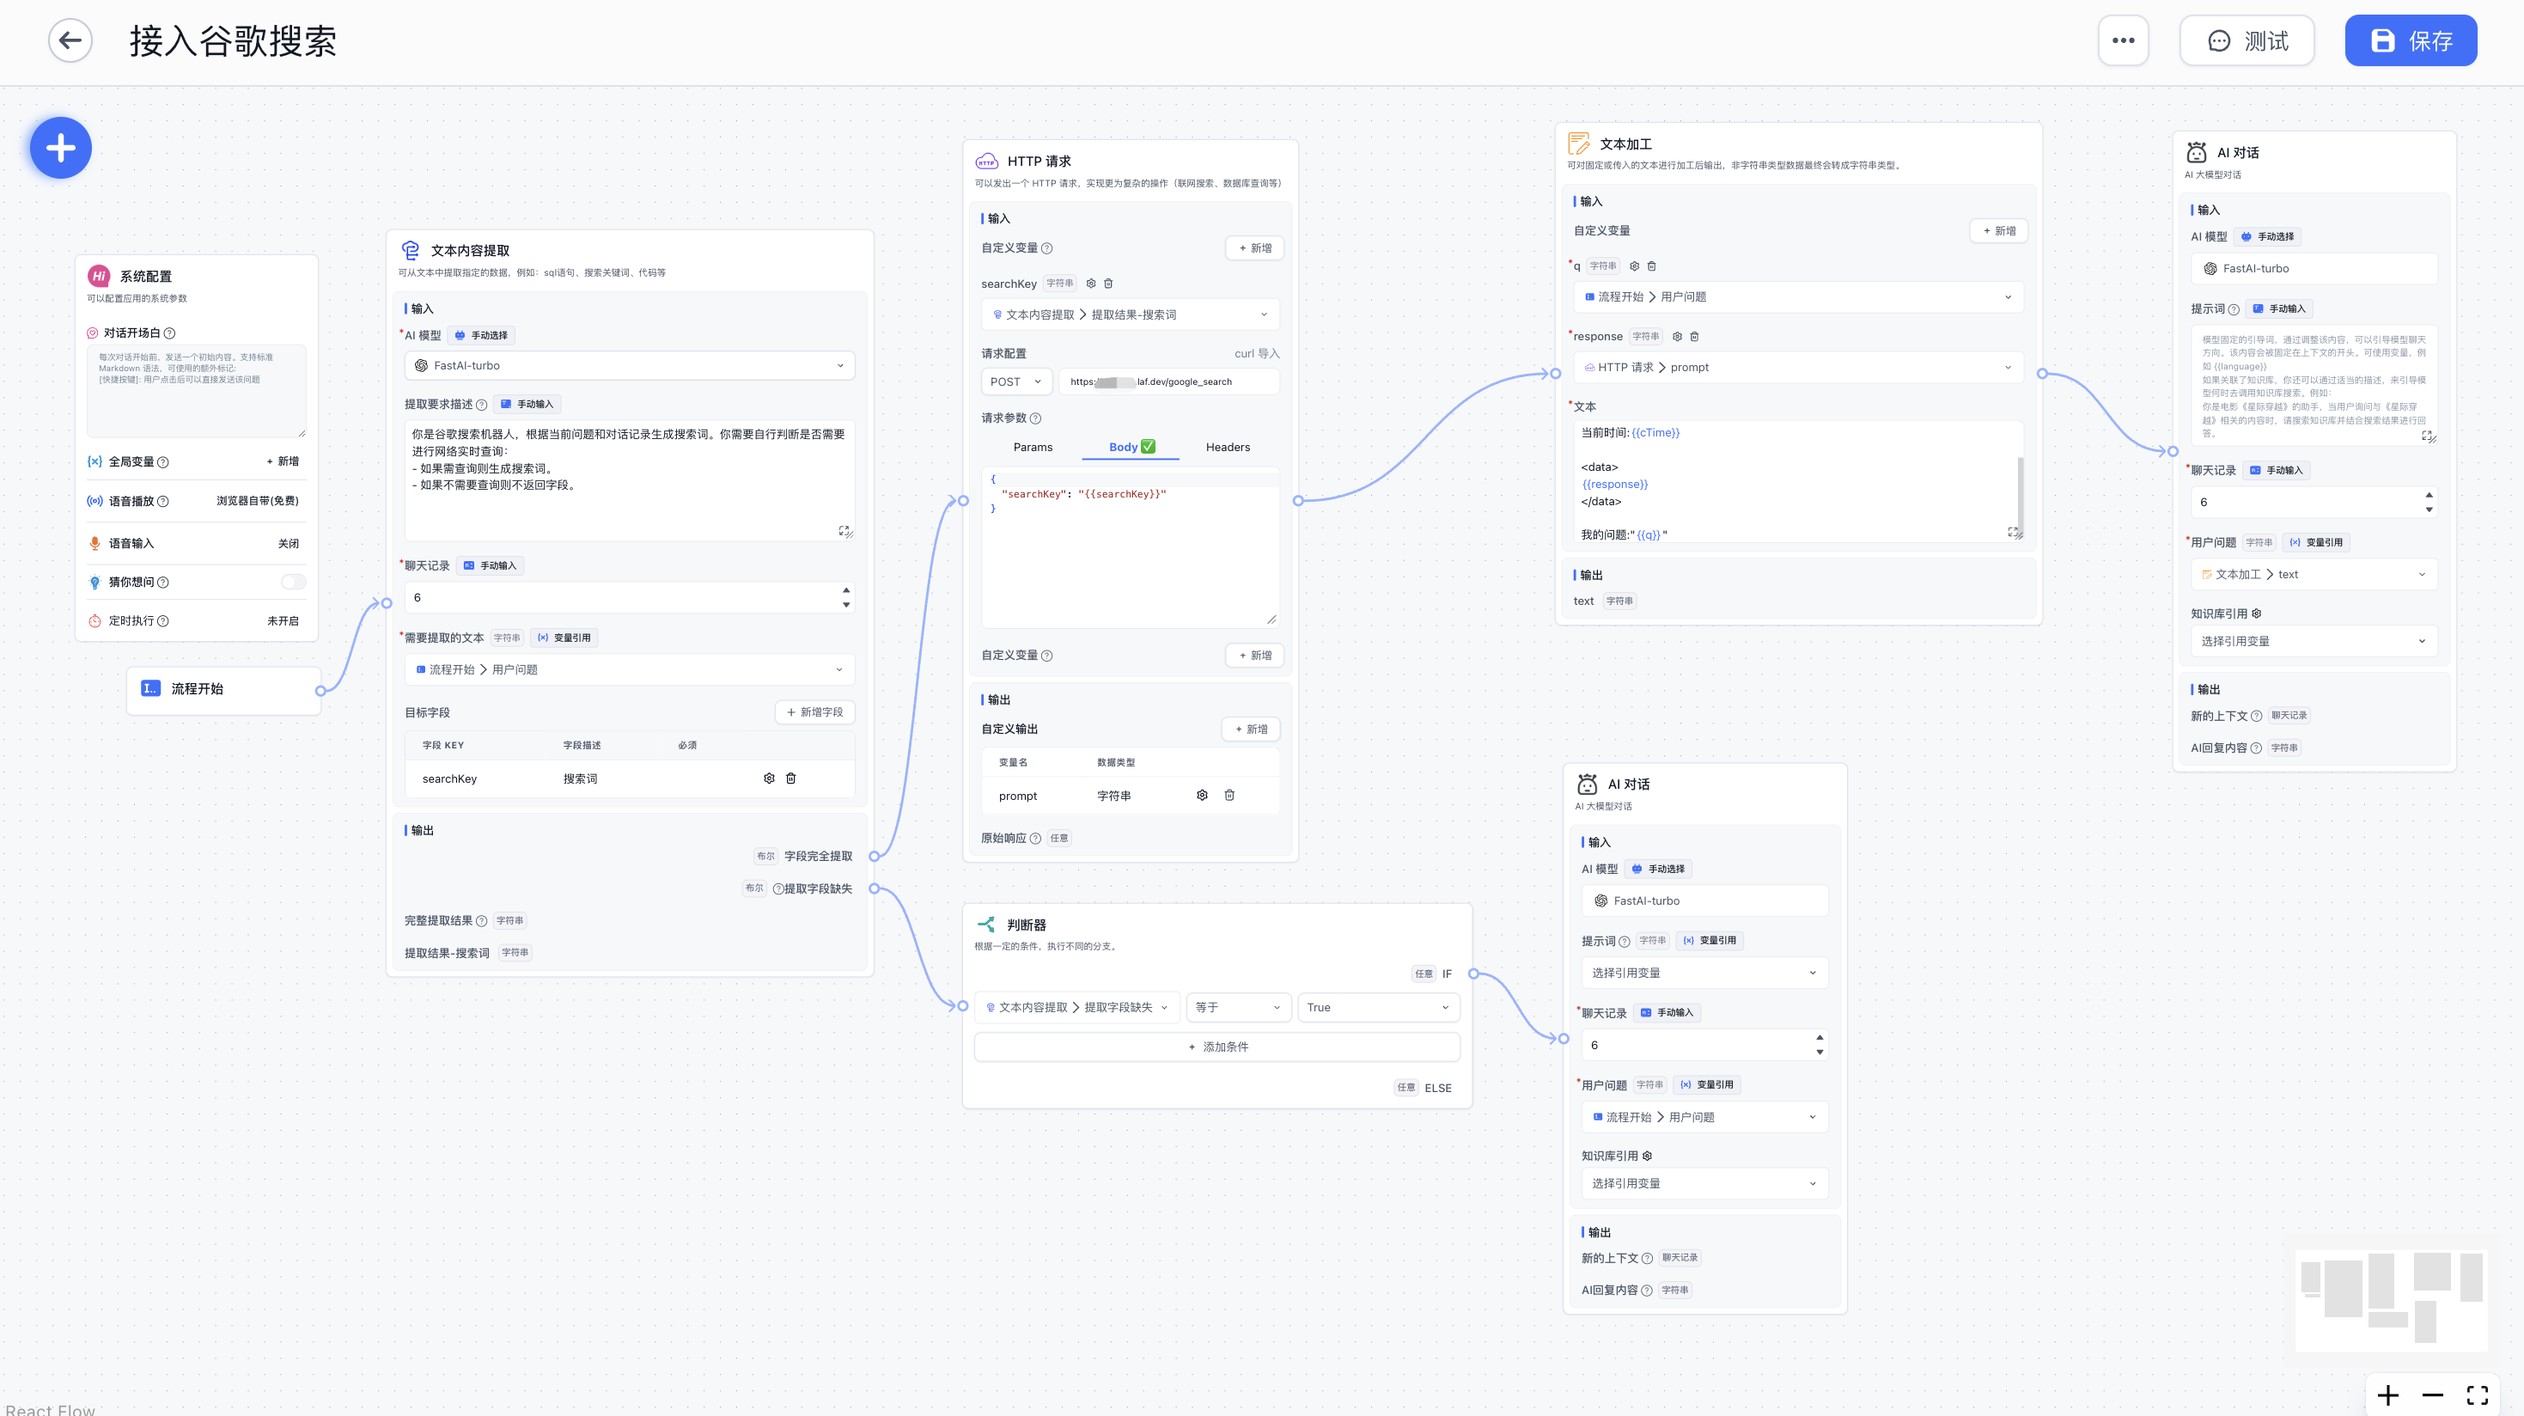
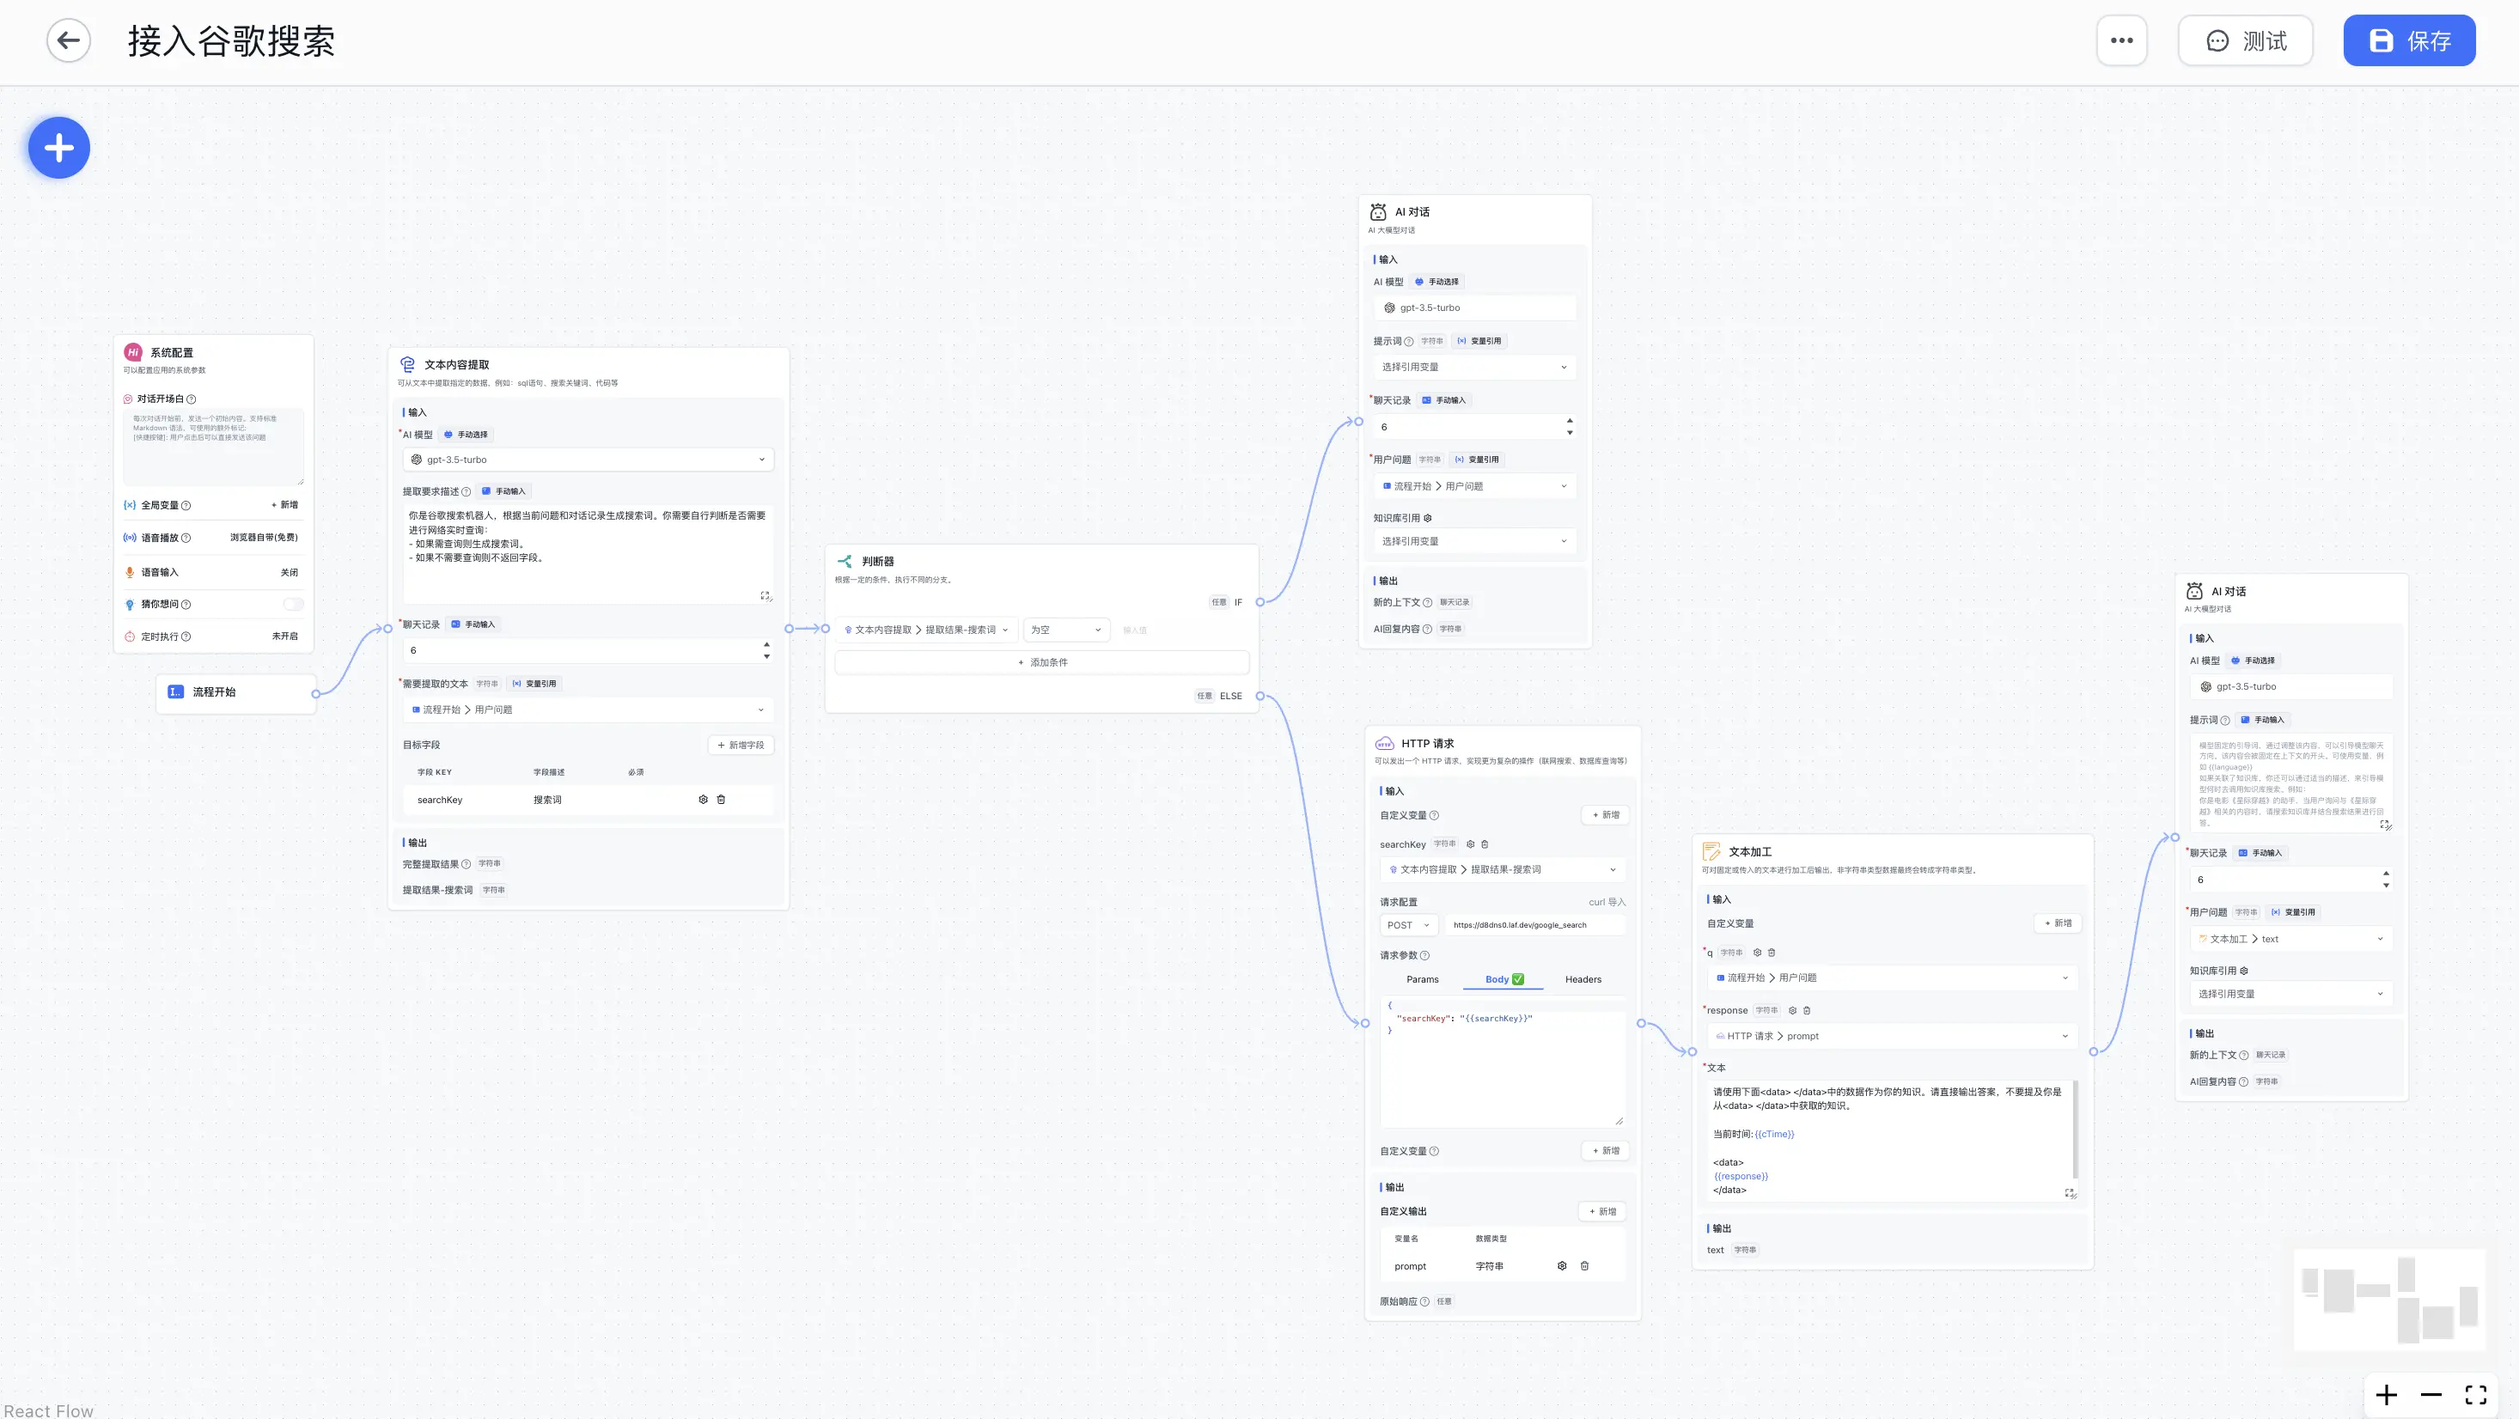
change doc & fix prompt editor

diff --git a/packages/web/components/common/Input/HttpInput/index.tsx b/packages/web/components/common/Input/HttpInput/index.tsx
@@ -34,6 +34,7 @@ const HttpInput = ({
 
   const onChangeInput = useCallback((editorState: EditorState, editor: LexicalEditor) => {
     const text = editorStateToText(editor).replaceAll('}}{{', '}} {{');
+    setCurrentValue(text);
     onChange?.(text);
   }, []);
   const onBlurInput = useCallback((editor: LexicalEditor) => {
@@ -42,9 +43,6 @@ const HttpInput = ({
       onBlur?.(text);
     });
   }, []);
-  useEffect(() => {
-    setCurrentValue(value);
-  }, [value]);
 
   return (
     <>

diff --git a/packages/web/components/common/Textarea/PromptEditor/index.module.scss b/packages/web/components/common/Textarea/PromptEditor/index.module.scss
@@ -26,7 +26,13 @@
   outline: none;
   border: 1px solid;
   border-color: var(--chakra-colors-primary-600);
-  background: #fff;
+  box-shadow: 0px 0px 0px 2.4px rgba(51, 112, 255, 0.15);
+}
+
+.contentEditable_isFlow:focus {
+  outline: none;
+  border: 1px solid;
+  border-color: var(--chakra-colors-primary-600);
   box-shadow: 0px 0px 0px 2.4px rgba(51, 112, 255, 0.15);
 }
 

diff --git a/docSite/content/docs/workflow/examples/google_search.md b/docSite/content/docs/workflow/examples/google_search.md
@@ -542,122 +542,6 @@ export default async function (ctx: FunctionContext) {
       ]
     },
     {
-      "nodeId": "hgDD87USKMBN",
-      "name": "文本内容提取",
-      "intro": "可从文本中提取指定的数据，例如：sql语句、搜索关键词、代码等",
-      "avatar": "/imgs/workflow/extract.png",
-      "flowNodeType": "contentExtract",
-      "showStatus": true,
-      "position": {
-        "x": 509.12056995756654,
-        "y": -486.9601529132095
-      },
-      "inputs": [
-        {
-          "key": "model",
-          "renderTypeList": [
-            "selectLLMModel",
-            "reference"
-          ],
-          "label": "core.module.input.label.aiModel",
-          "required": true,
-          "valueType": "string",
-          "llmModelType": "extractFields",
-          "value": "gpt-3.5-turbo"
-        },
-        {
-          "key": "description",
-          "renderTypeList": [
-            "textarea",
-            "reference"
-          ],
-          "valueType": "string",
-          "label": "提取要求描述",
-          "description": "给AI一些对应的背景知识或要求描述，引导AI更好的完成任务。\n该输入框可使用全局变量。",
-          "placeholder": "例如: \n1. 当前时间为: {{cTime}}。你是一个实验室预约助手，你的任务是帮助用户预约实验室，从文本中获取对应的预约信息。\n2. 你是谷歌搜索助手，需要从文本中提取出合适的搜索词。",
-          "value": "你是谷歌搜索机器人，根据当前问题和对话记录生成搜索词。你需要自行判断是否需要进行网络实时查询：\n- 如果需查询则生成搜索词。\n- 如果不需要查询则不返回字段。"
-        },
-        {
-          "key": "history",
-          "renderTypeList": [
-            "numberInput",
-            "reference"
-          ],
-          "valueType": "chatHistory",
-          "label": "core.module.input.label.chat history",
-          "required": true,
-          "min": 0,
-          "max": 30,
-          "value": 6
-        },
-        {
-          "key": "content",
-          "renderTypeList": [
-            "reference",
-            "textarea"
-          ],
-          "label": "需要提取的文本",
-          "required": true,
-          "valueType": "string",
-          "toolDescription": "需要检索的内容",
-          "value": [
-            "448745",
-            "userChatInput"
-          ]
-        },
-        {
-          "key": "extractKeys",
-          "renderTypeList": [
-            "custom"
-          ],
-          "label": "",
-          "valueType": "any",
-          "description": "由 '描述' 和 'key' 组成一个目标字段，可提取多个目标字段",
-          "value": [
-            {
-              "required": false,
-              "defaultValue": "",
-              "desc": "搜索词",
-              "key": "searchKey",
-              "enum": ""
-            }
-          ]
-        }
-      ],
-      "outputs": [
-        {
-          "id": "success",
-          "key": "success",
-          "label": "字段完全提取",
-          "valueType": "boolean",
-          "type": "source"
-        },
-        {
-          "id": "failed",
-          "key": "failed",
-          "label": "提取字段缺失",
-          "description": "存在一个或多个字段未提取成功。尽管使用了默认值也算缺失。",
-          "valueType": "boolean",
-          "type": "source"
-        },
-        {
-          "id": "fields",
-          "key": "fields",
-          "label": "完整提取结果",
-          "description": "一个 JSON 字符串，例如：{\"name:\":\"YY\",\"Time\":\"2023/7/2 18:00\"}",
-          "valueType": "string",
-          "type": "static"
-        },
-        {
-          "id": "CMRsZ6QGaxtV",
-          "key": "searchKey",
-          "label": "提取结果-搜索词",
-          "valueType": "string",
-          "type": "static"
-        }
-      ]
-    },
-    {
       "nodeId": "TWD5BAqIIFaj",
       "name": "判断器",
       "intro": "根据一定的条件，执行不同的分支。",
@@ -665,8 +549,8 @@ export default async function (ctx: FunctionContext) {
       "flowNodeType": "ifElseNode",
       "showStatus": true,
       "position": {
-        "x": 1217.046640238617,
-        "y": 340.6565333440734
+        "x": 1187.4821088468154,
+        "y": -143.83989103517257
       },
       "inputs": [
         {
@@ -689,11 +573,11 @@ export default async function (ctx: FunctionContext) {
           "value": [
             {
               "variable": [
-                "hgDD87USKMBN",
-                "failed"
+                "lG52GzzMm65z",
+                "6yF19MRD3nuB"
               ],
-              "condition": "equalTo",
-              "value": "true"
+              "condition": "isEmpty",
+              "value": ""
             }
           ]
         }
@@ -723,8 +607,8 @@ export default async function (ctx: FunctionContext) {
       "flowNodeType": "httpRequest468",
       "showStatus": true,
       "position": {
-        "x": 1217.6049019178688,
-        "y": -597.3778323414249
+        "x": 1992.0328696814468,
+        "y": 127.08080019458595
       },
       "inputs": [
         {
@@ -755,8 +639,8 @@ export default async function (ctx: FunctionContext) {
             "valueType": true
           },
           "value": [
-            "hgDD87USKMBN",
-            "CMRsZ6QGaxtV"
+            "lG52GzzMm65z",
+            "6yF19MRD3nuB"
           ]
         },
         {
@@ -865,8 +749,8 @@ export default async function (ctx: FunctionContext) {
       "flowNodeType": "chatNode",
       "showStatus": true,
       "position": {
-        "x": 1955.2635939402003,
-        "y": 168.4419404219916
+        "x": 1982.442841318768,
+        "y": -664.9716343803625
       },
       "inputs": [
         {
@@ -1011,8 +895,8 @@ export default async function (ctx: FunctionContext) {
       "flowNodeType": "pluginModule",
       "showStatus": false,
       "position": {
-        "x": 1945.2841684646087,
-        "y": -618.5686416627316
+        "x": 2479.5913201989906,
+        "y": 288.52613614690904
       },
       "inputs": [
         {
@@ -1113,8 +997,8 @@ export default async function (ctx: FunctionContext) {
       "flowNodeType": "chatNode",
       "showStatus": true,
       "position": {
-        "x": 2703.883899404409,
-        "y": -607.9682060622981
+        "x": 3199.17223136331,
+        "y": -100.06379812849427
       },
       "inputs": [
         {
@@ -1245,27 +1129,110 @@ export default async function (ctx: FunctionContext) {
           "type": "static"
         }
       ]
+    },
+    {
+      "nodeId": "lG52GzzMm65z",
+      "name": "文本内容提取",
+      "intro": "可从文本中提取指定的数据，例如：sql语句、搜索关键词、代码等",
+      "avatar": "/imgs/workflow/extract.png",
+      "flowNodeType": "contentExtract",
+      "showStatus": true,
+      "position": {
+        "x": 535.331344778598,
+        "y": -437.1382636373696
+      },
+      "inputs": [
+        {
+          "key": "model",
+          "renderTypeList": [
+            "selectLLMModel",
+            "reference"
+          ],
+          "label": "core.module.input.label.aiModel",
+          "required": true,
+          "valueType": "string",
+          "llmModelType": "extractFields",
+          "value": "gpt-3.5-turbo"
+        },
+        {
+          "key": "description",
+          "renderTypeList": [
+            "textarea",
+            "reference"
+          ],
+          "valueType": "string",
+          "label": "提取要求描述",
+          "description": "给AI一些对应的背景知识或要求描述，引导AI更好的完成任务。\n该输入框可使用全局变量。",
+          "placeholder": "例如: \n1. 当前时间为: {{cTime}}。你是一个实验室预约助手，你的任务是帮助用户预约实验室，从文本中获取对应的预约信息。\n2. 你是谷歌搜索助手，需要从文本中提取出合适的搜索词。",
+          "value": "你是谷歌搜索机器人，根据当前问题和对话记录生成搜索词。你需要自行判断是否需要进行网络实时查询：\n- 如果需查询则生成搜索词。\n- 如果不需要查询则不返回字段。"
+        },
+        {
+          "key": "history",
+          "renderTypeList": [
+            "numberInput",
+            "reference"
+          ],
+          "valueType": "chatHistory",
+          "label": "core.module.input.label.chat history",
+          "required": true,
+          "min": 0,
+          "max": 30,
+          "value": 6
+        },
+        {
+          "key": "content",
+          "renderTypeList": [
+            "reference",
+            "textarea"
+          ],
+          "label": "需要提取的文本",
+          "required": true,
+          "valueType": "string",
+          "toolDescription": "需要检索的内容",
+          "value": [
+            "448745",
+            "userChatInput"
+          ]
+        },
+        {
+          "key": "extractKeys",
+          "renderTypeList": [
+            "custom"
+          ],
+          "label": "",
+          "valueType": "any",
+          "description": "由 '描述' 和 'key' 组成一个目标字段，可提取多个目标字段",
+          "value": [
+            {
+              "required": false,
+              "defaultValue": "",
+              "desc": "搜索词",
+              "key": "searchKey",
+              "enum": ""
+            }
+          ]
+        }
+      ],
+      "outputs": [
+        {
+          "id": "fields",
+          "key": "fields",
+          "label": "完整提取结果",
+          "description": "一个 JSON 字符串，例如：{\"name:\":\"YY\",\"Time\":\"2023/7/2 18:00\"}",
+          "valueType": "string",
+          "type": "static"
+        },
+        {
+          "id": "6yF19MRD3nuB",
+          "key": "searchKey",
+          "label": "提取结果-搜索词",
+          "valueType": "string",
+          "type": "static"
+        }
+      ]
     }
   ],
   "edges": [
-    {
-      "source": "448745",
-      "target": "hgDD87USKMBN",
-      "sourceHandle": "448745-source-right",
-      "targetHandle": "hgDD87USKMBN-target-left"
-    },
-    {
-      "source": "hgDD87USKMBN",
-      "target": "TWD5BAqIIFaj",
-      "sourceHandle": "hgDD87USKMBN-source-failed",
-      "targetHandle": "TWD5BAqIIFaj-target-left"
-    },
-    {
-      "source": "hgDD87USKMBN",
-      "target": "1ljV0oTq4zeC",
-      "sourceHandle": "hgDD87USKMBN-source-success",
-      "targetHandle": "1ljV0oTq4zeC-target-left"
-    },
     {
       "source": "TWD5BAqIIFaj",
       "target": "Nc6hBdb3l9Pe",
@@ -1283,6 +1250,24 @@ export default async function (ctx: FunctionContext) {
       "target": "EX0g9oK3sCOC",
       "sourceHandle": "FYLw1BokYUad-source-right",
       "targetHandle": "EX0g9oK3sCOC-target-left"
+    },
+    {
+      "source": "448745",
+      "target": "lG52GzzMm65z",
+      "sourceHandle": "448745-source-right",
+      "targetHandle": "lG52GzzMm65z-target-left"
+    },
+    {
+      "source": "lG52GzzMm65z",
+      "target": "TWD5BAqIIFaj",
+      "sourceHandle": "lG52GzzMm65z-source-right",
+      "targetHandle": "TWD5BAqIIFaj-target-left"
+    },
+    {
+      "source": "TWD5BAqIIFaj",
+      "target": "1ljV0oTq4zeC",
+      "sourceHandle": "TWD5BAqIIFaj-source-ELSE",
+      "targetHandle": "1ljV0oTq4zeC-target-left"
     }
   ]
 }
